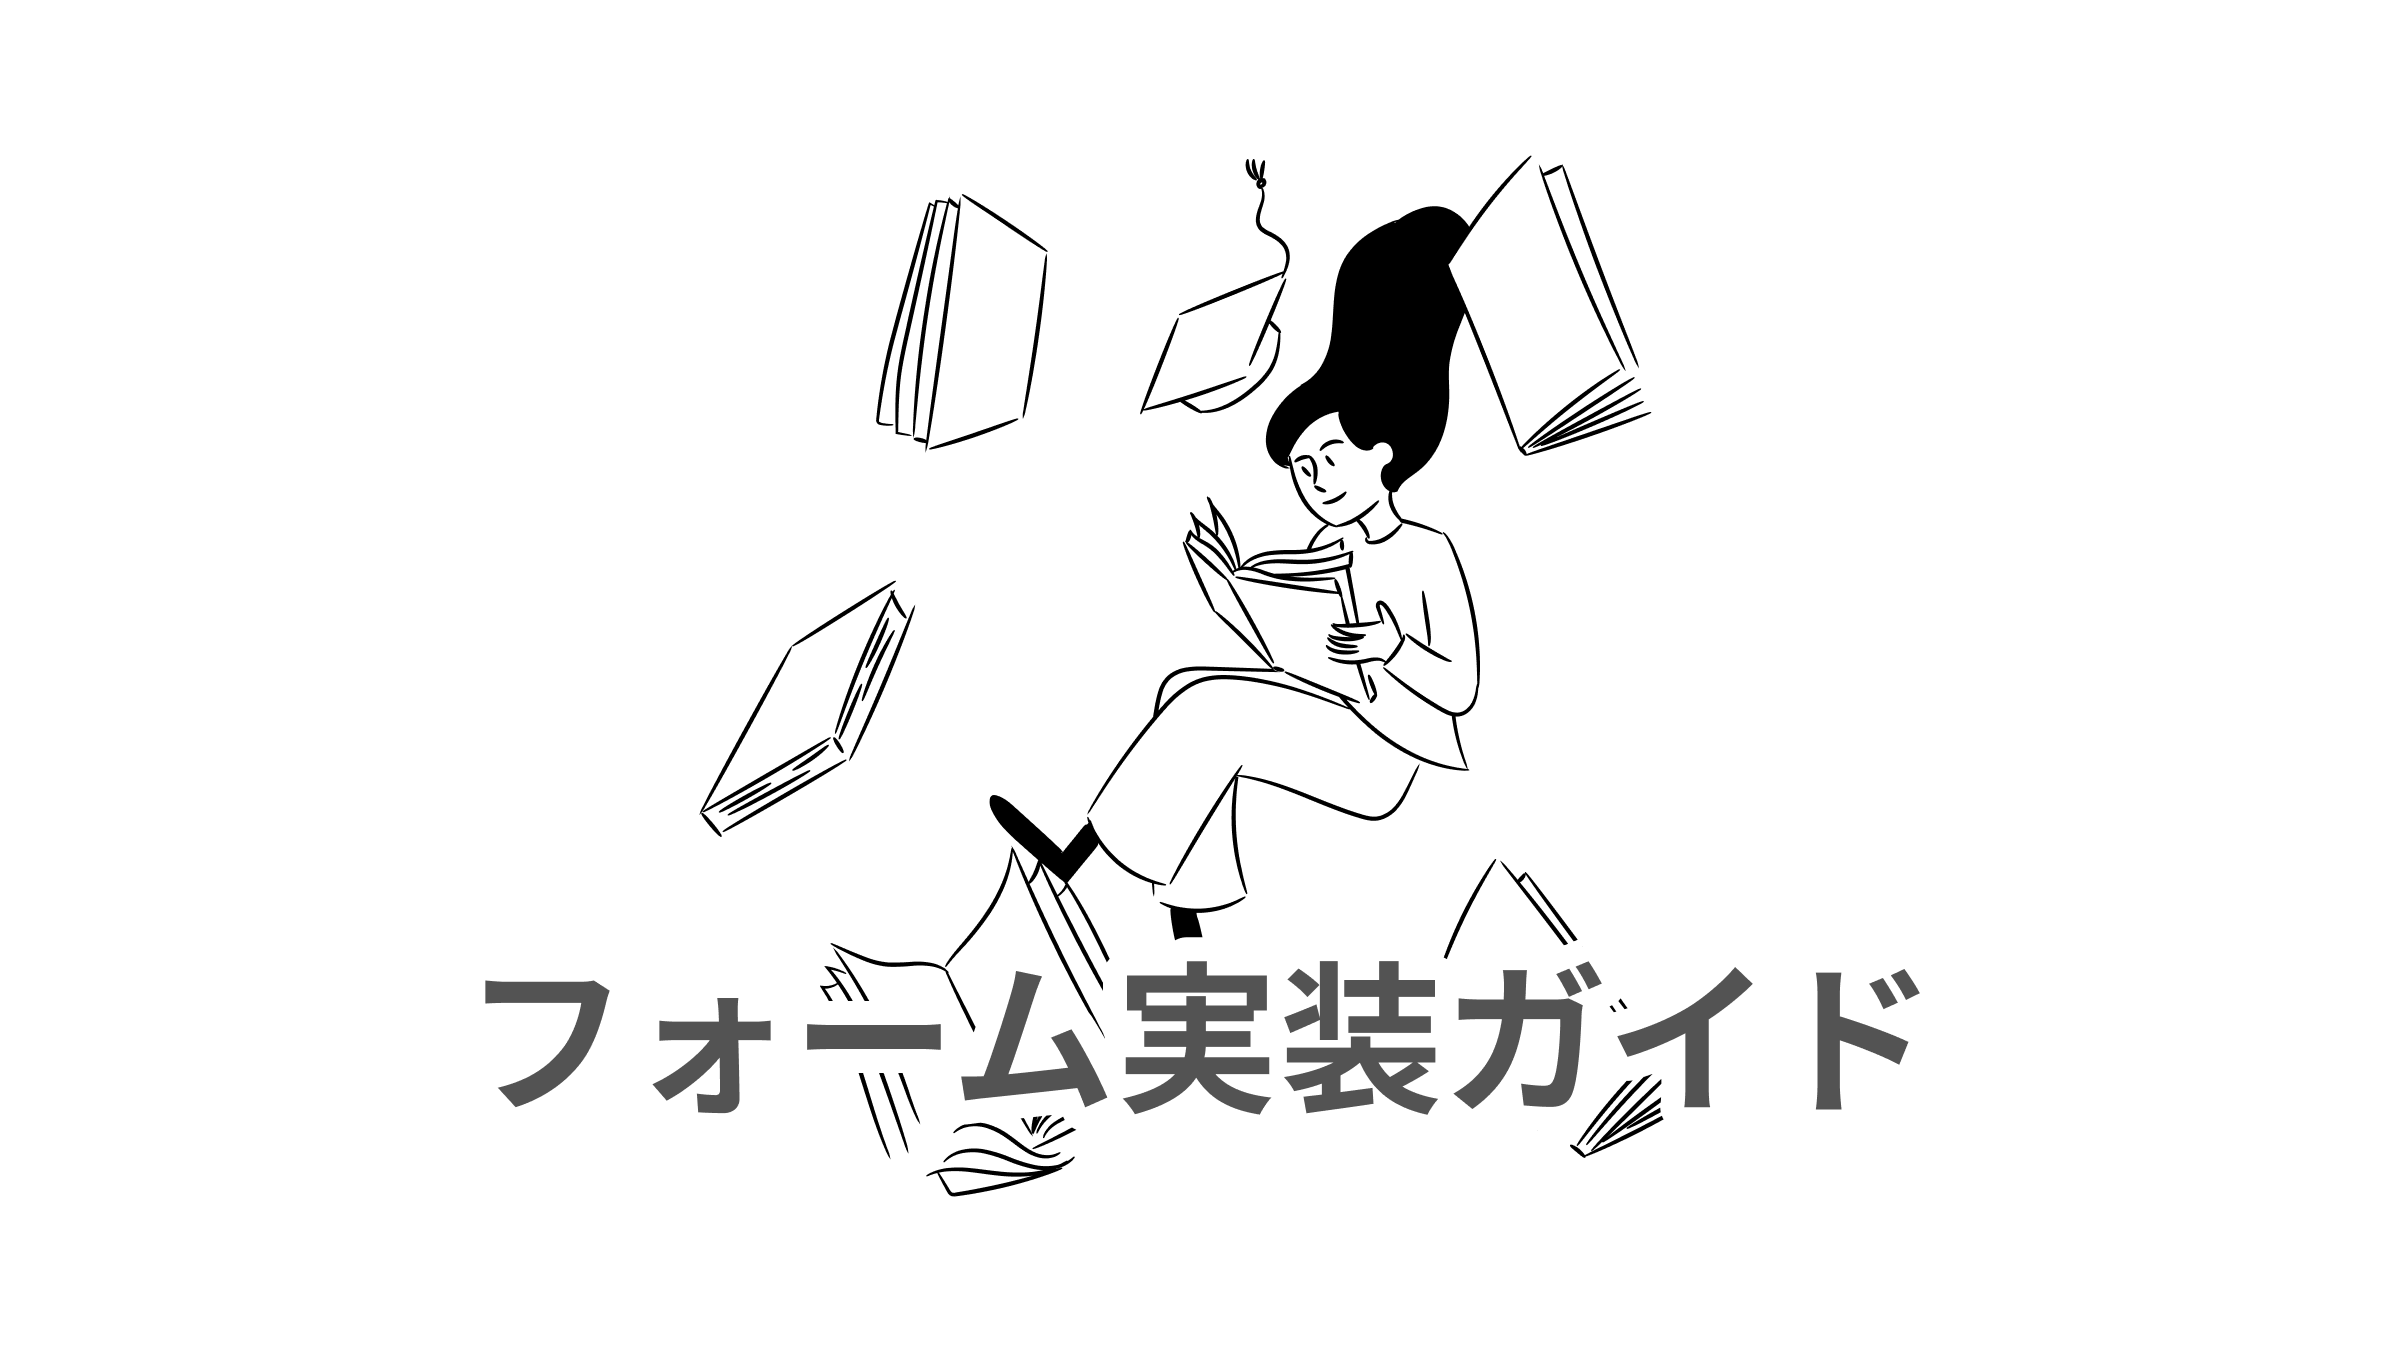
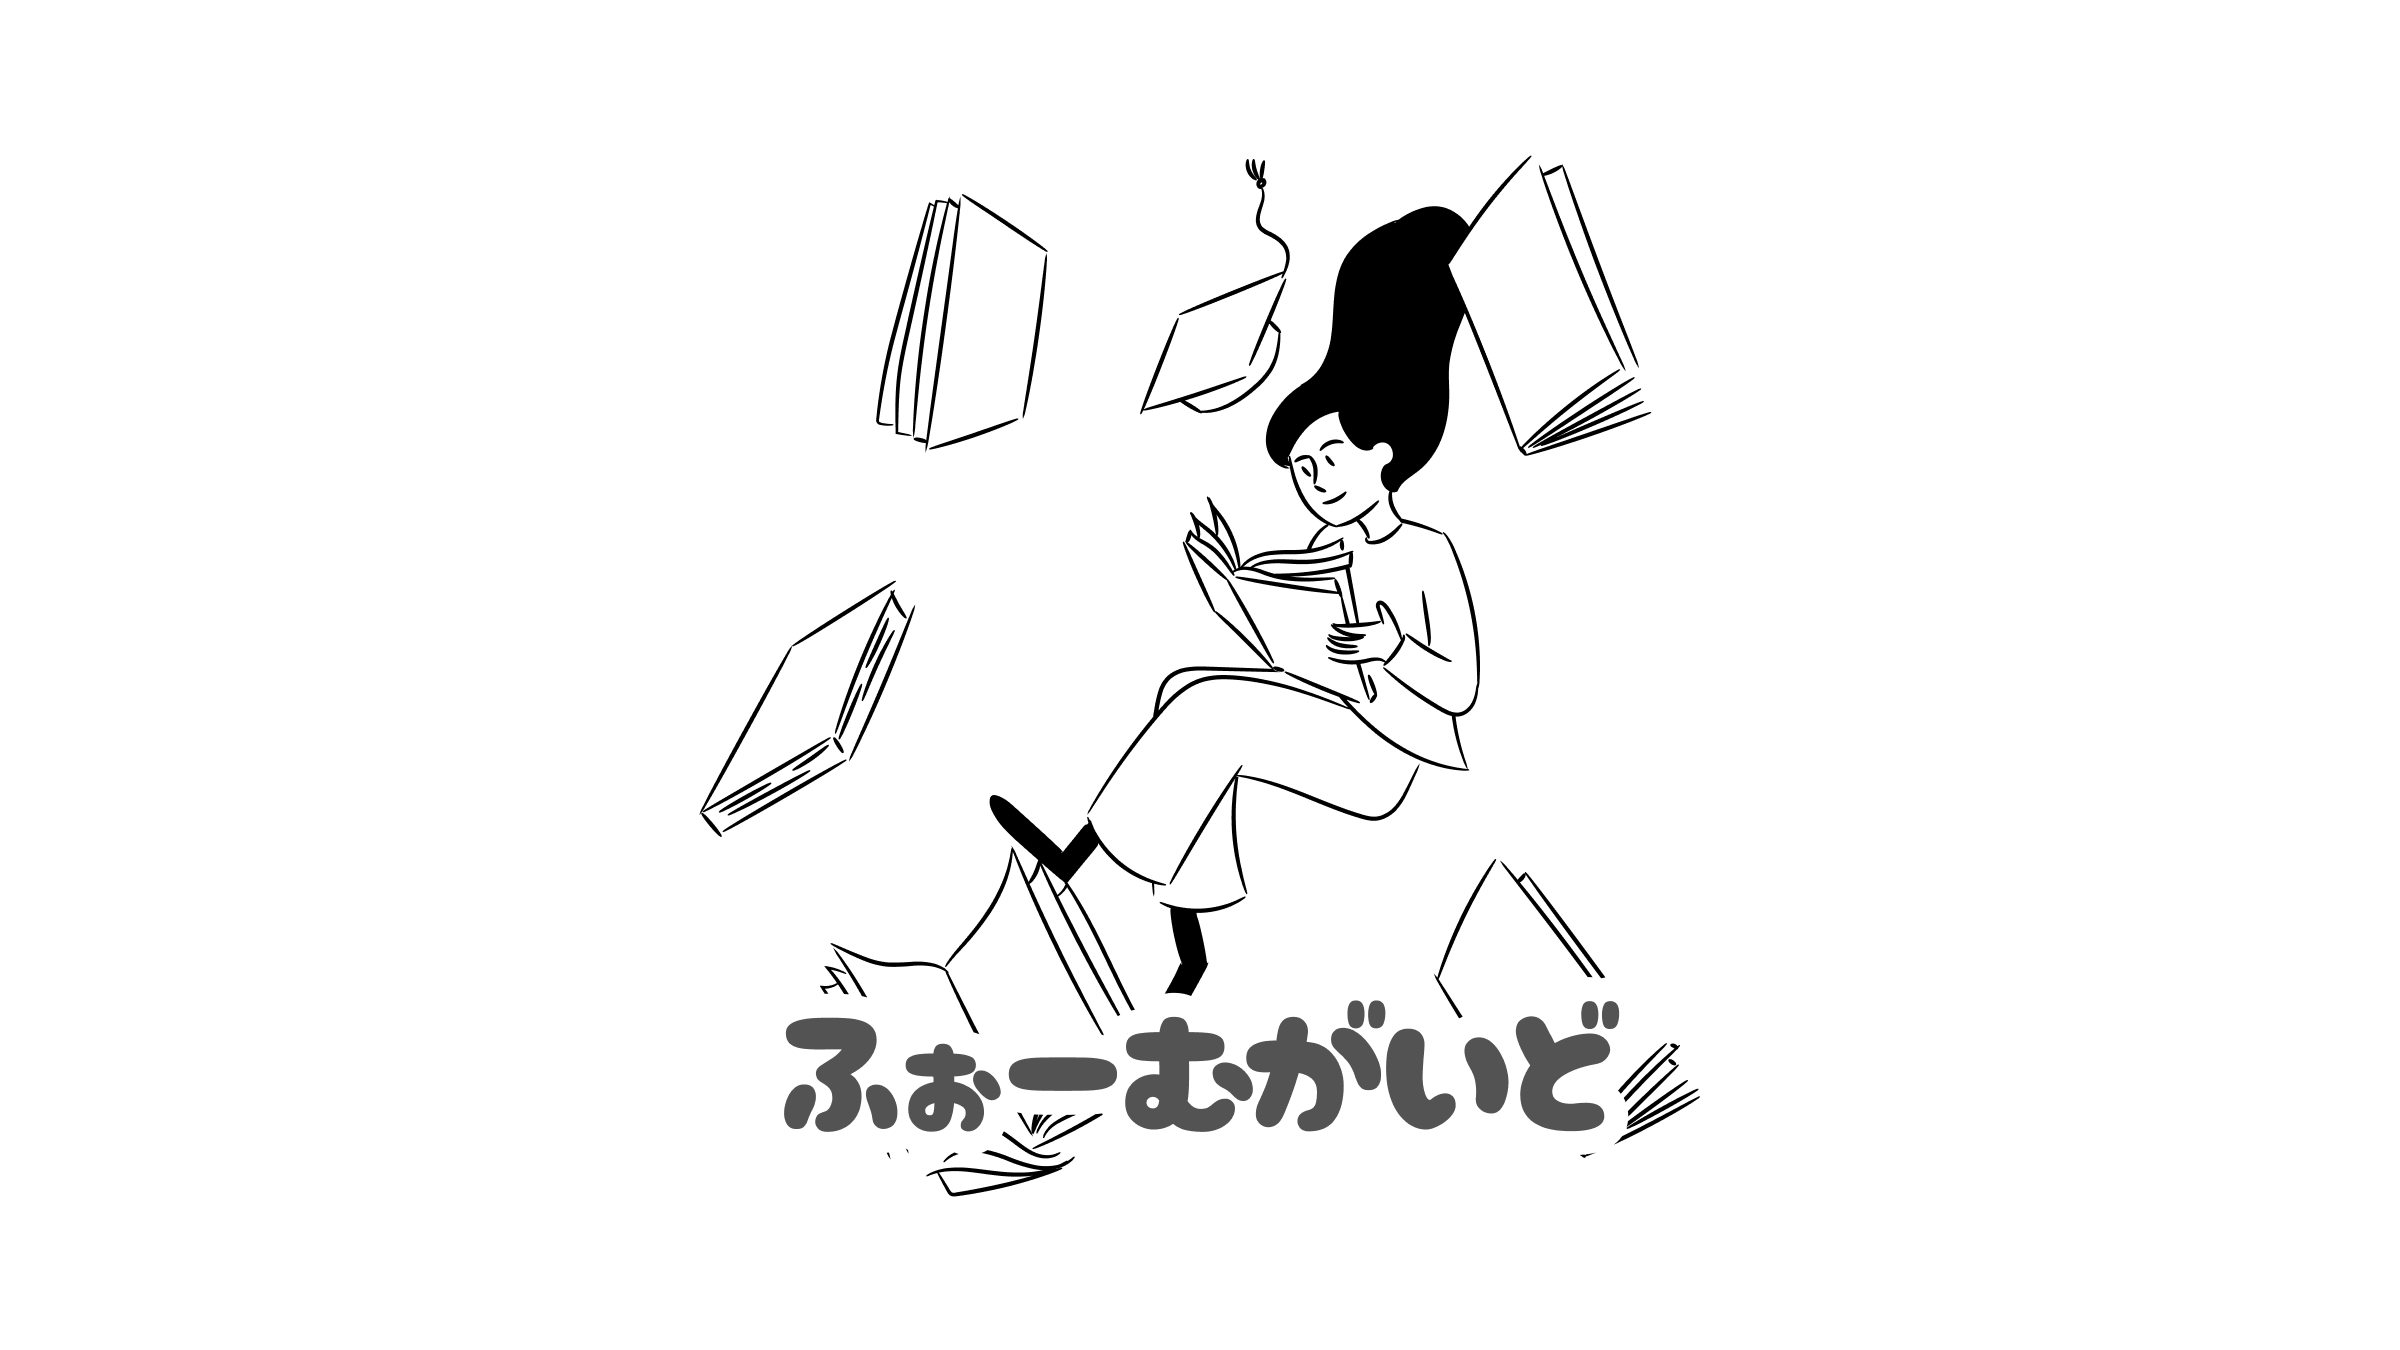
feat: OG Image, タイトルフォント、スタイル調整

Changed region(s): [[0.1875, 0.6844, 0.8125, 0.8711]]

diff --git a/app/page.tsx b/app/page.tsx
@@ -5,6 +5,14 @@ import { FIELDS } from '@/lib/fields';
 import fs from 'fs';
 import Image from 'next/image';
 import path from 'path';
+import { Cherry_Bomb_One } from 'next/font/google';
+import { cn } from '@/lib/utils';
+
+const cherry = Cherry_Bomb_One({
+  weight: '400',
+  preload: false,
+  display: 'swap',
+});
 
 /**
  * TODO: 離脱防止
@@ -39,7 +47,14 @@ export default function Home() {
         <div className="h-64 md:h-80 mx-auto mb-6 relative">
           <Image src={`${AppConfig.basePath}/hero.svg`} alt="" fill />
         </div>
-        <h1 className="font-bold text-3xl mt-8 mb-2">ふぉーむがいど</h1>
+        <h1
+          className={cn(
+            'font-bold text-5xl text-gray-700 mt-8 mb-3',
+            cherry.className
+          )}
+        >
+          ふぉーむがいど
+        </h1>
         <p className="text-muted-foreground">
           オープンソースのフォーム実装ガイド
         </p>

diff --git a/components/ui/tabs.tsx b/components/ui/tabs.tsx
@@ -26,7 +26,7 @@ const TabsTrigger = React.forwardRef<
   <TabsPrimitive.Trigger
     ref={ref}
     className={cn(
-      'border-transparent border-b-2 whitespace-nowrap px-3 py-2 ring-offset-background transition-all focus-visible:outline-none focus-visible:ring-2 focus-visible:ring-ring focus-visible:ring-offset-2 disabled:pointer-events-none disabled:opacity-50 data-[state=active]:bg-background data-[state=active]:text-foreground data-[state=active]:border-black',
+      'border-transparent text-sm inline-flex items-center gap-2 border-b-2 whitespace-nowrap px-3 py-2 ring-offset-background transition-all focus-visible:outline-none focus-visible:ring-2 focus-visible:ring-ring focus-visible:ring-offset-2 disabled:pointer-events-none disabled:opacity-50 data-[state=active]:bg-background data-[state=active]:text-foreground data-[state=active]:border-black',
       className
     )}
     {...props}

diff --git a/components/ui/form-unit.tsx b/components/ui/form-unit.tsx
@@ -66,7 +66,7 @@ export default function FormUnit({
         </div>
 
         <Tabs defaultValue="preview">
-          <TabsList className="mb-4 border-none">
+          <TabsList className="mb-3 border-none">
             <TabsTrigger value="preview">プレビュー</TabsTrigger>
             {sources.map((source) => (
               <TabsTrigger key={source.lang} value={source.lang}>
